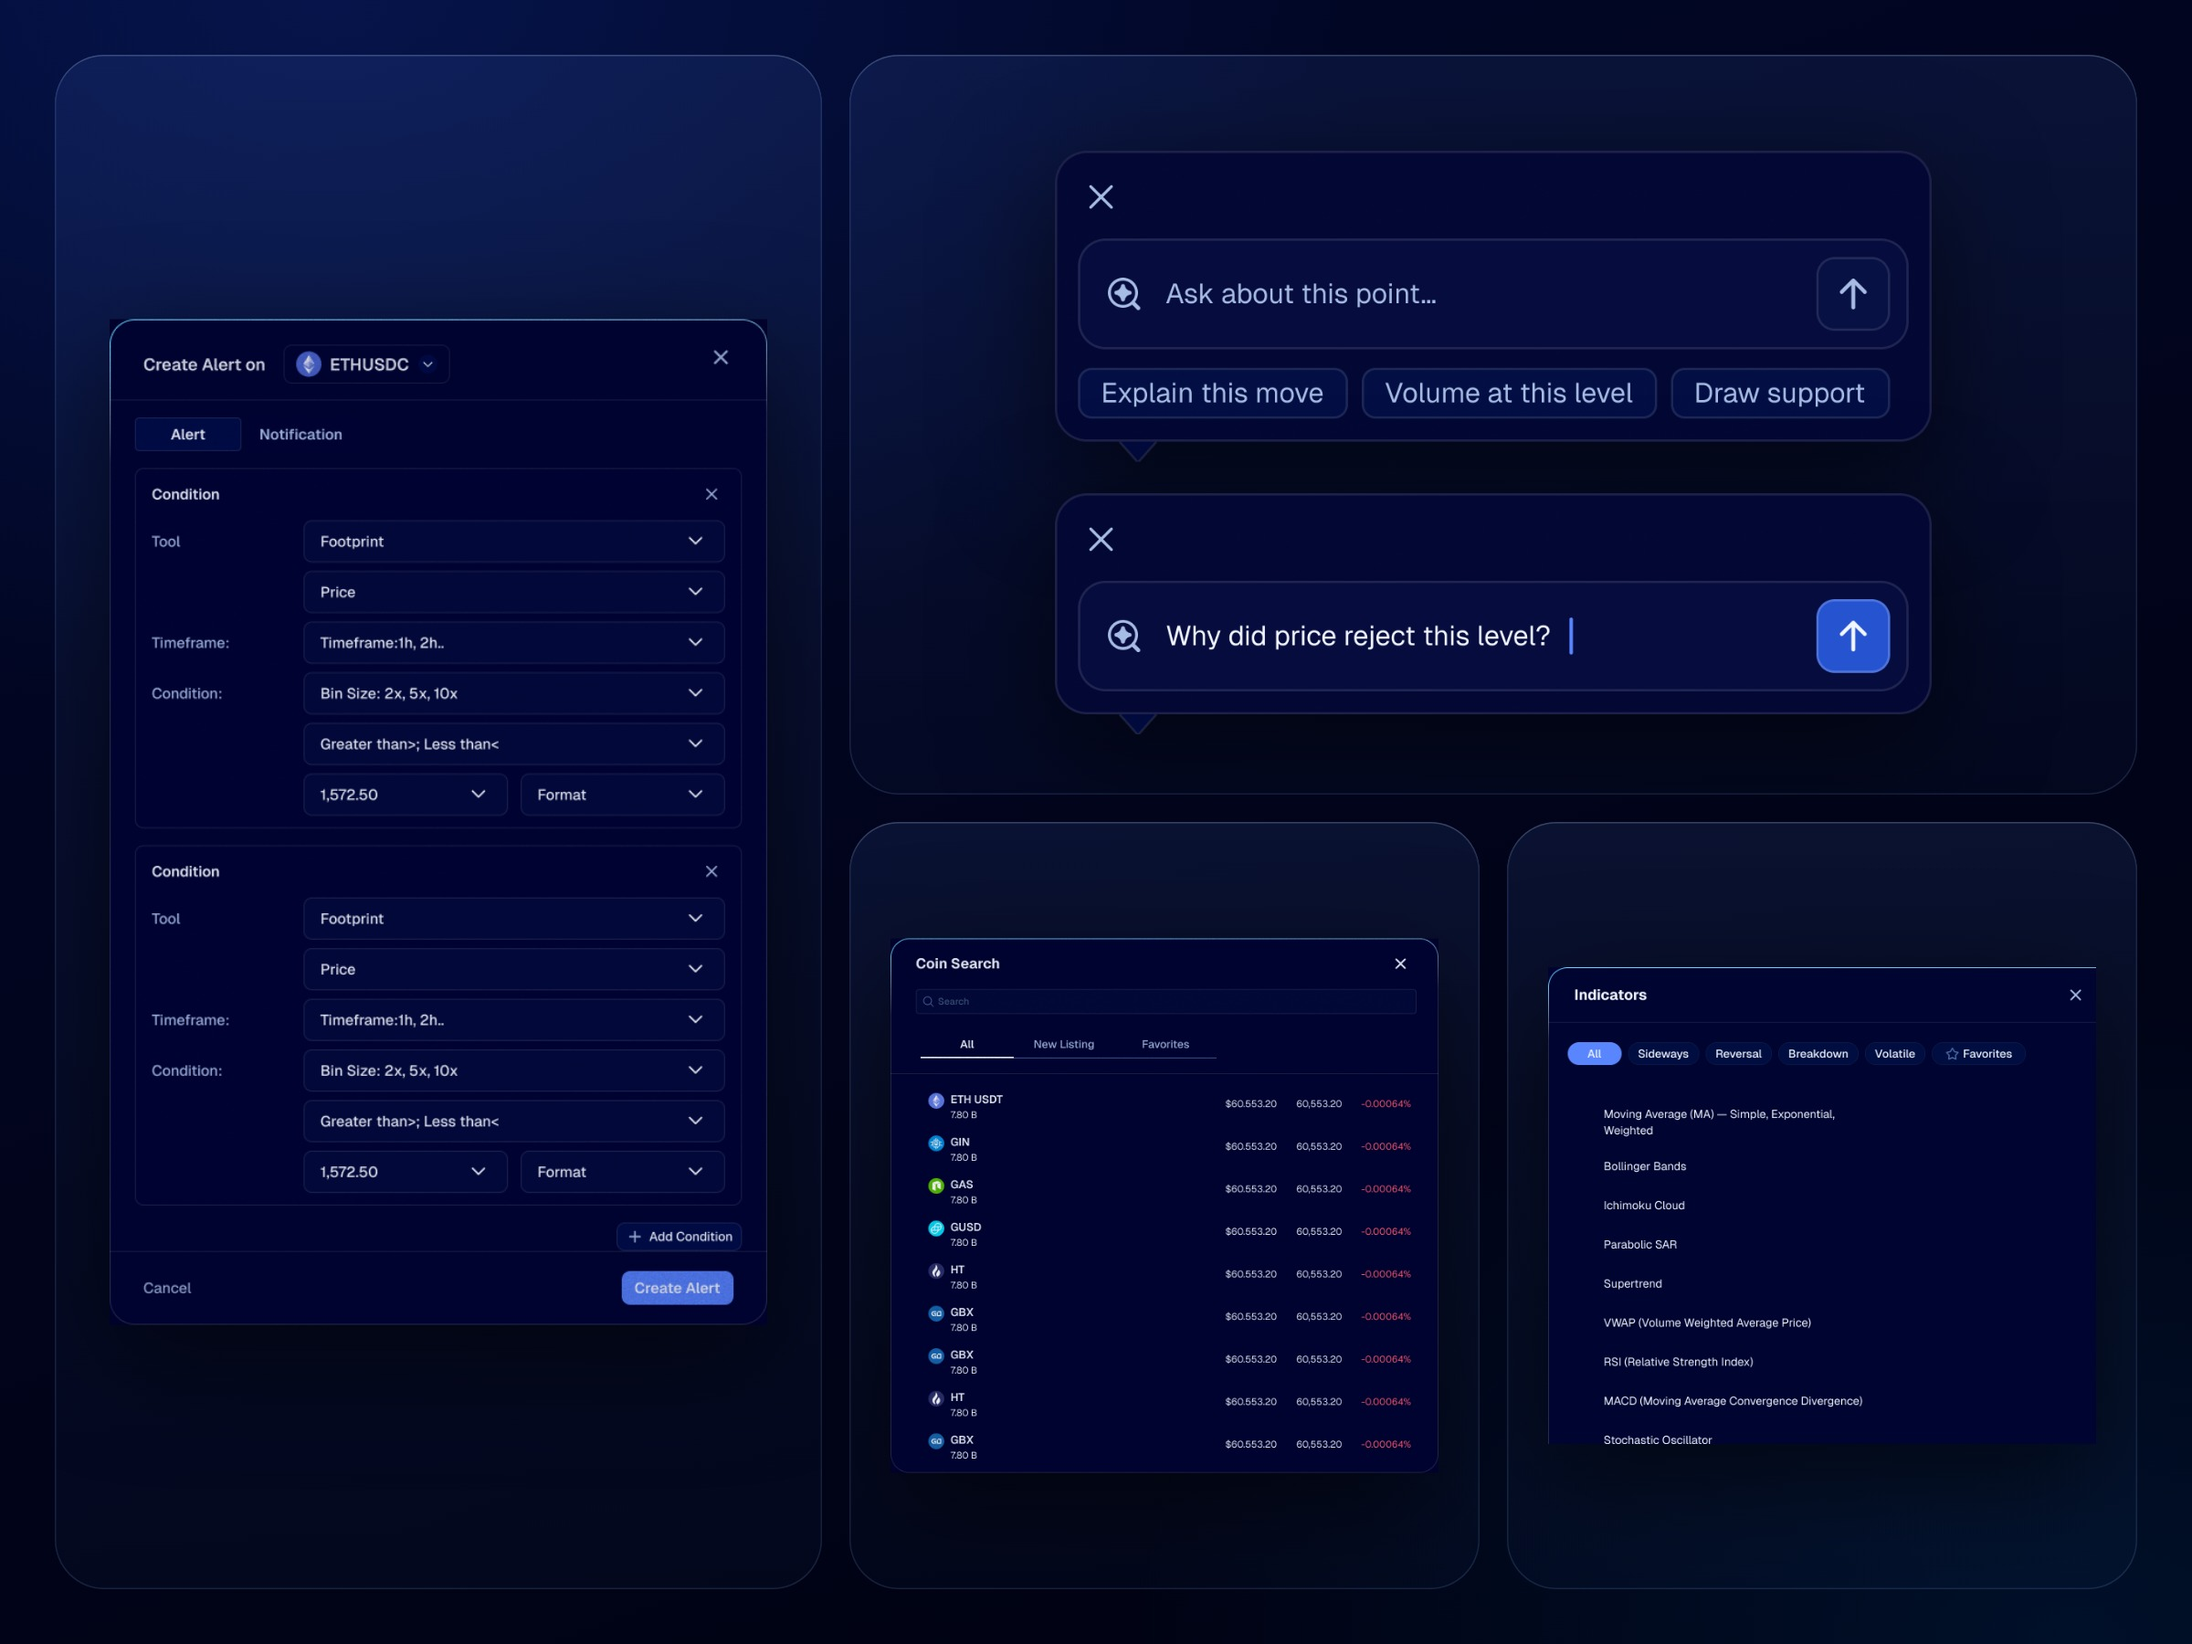
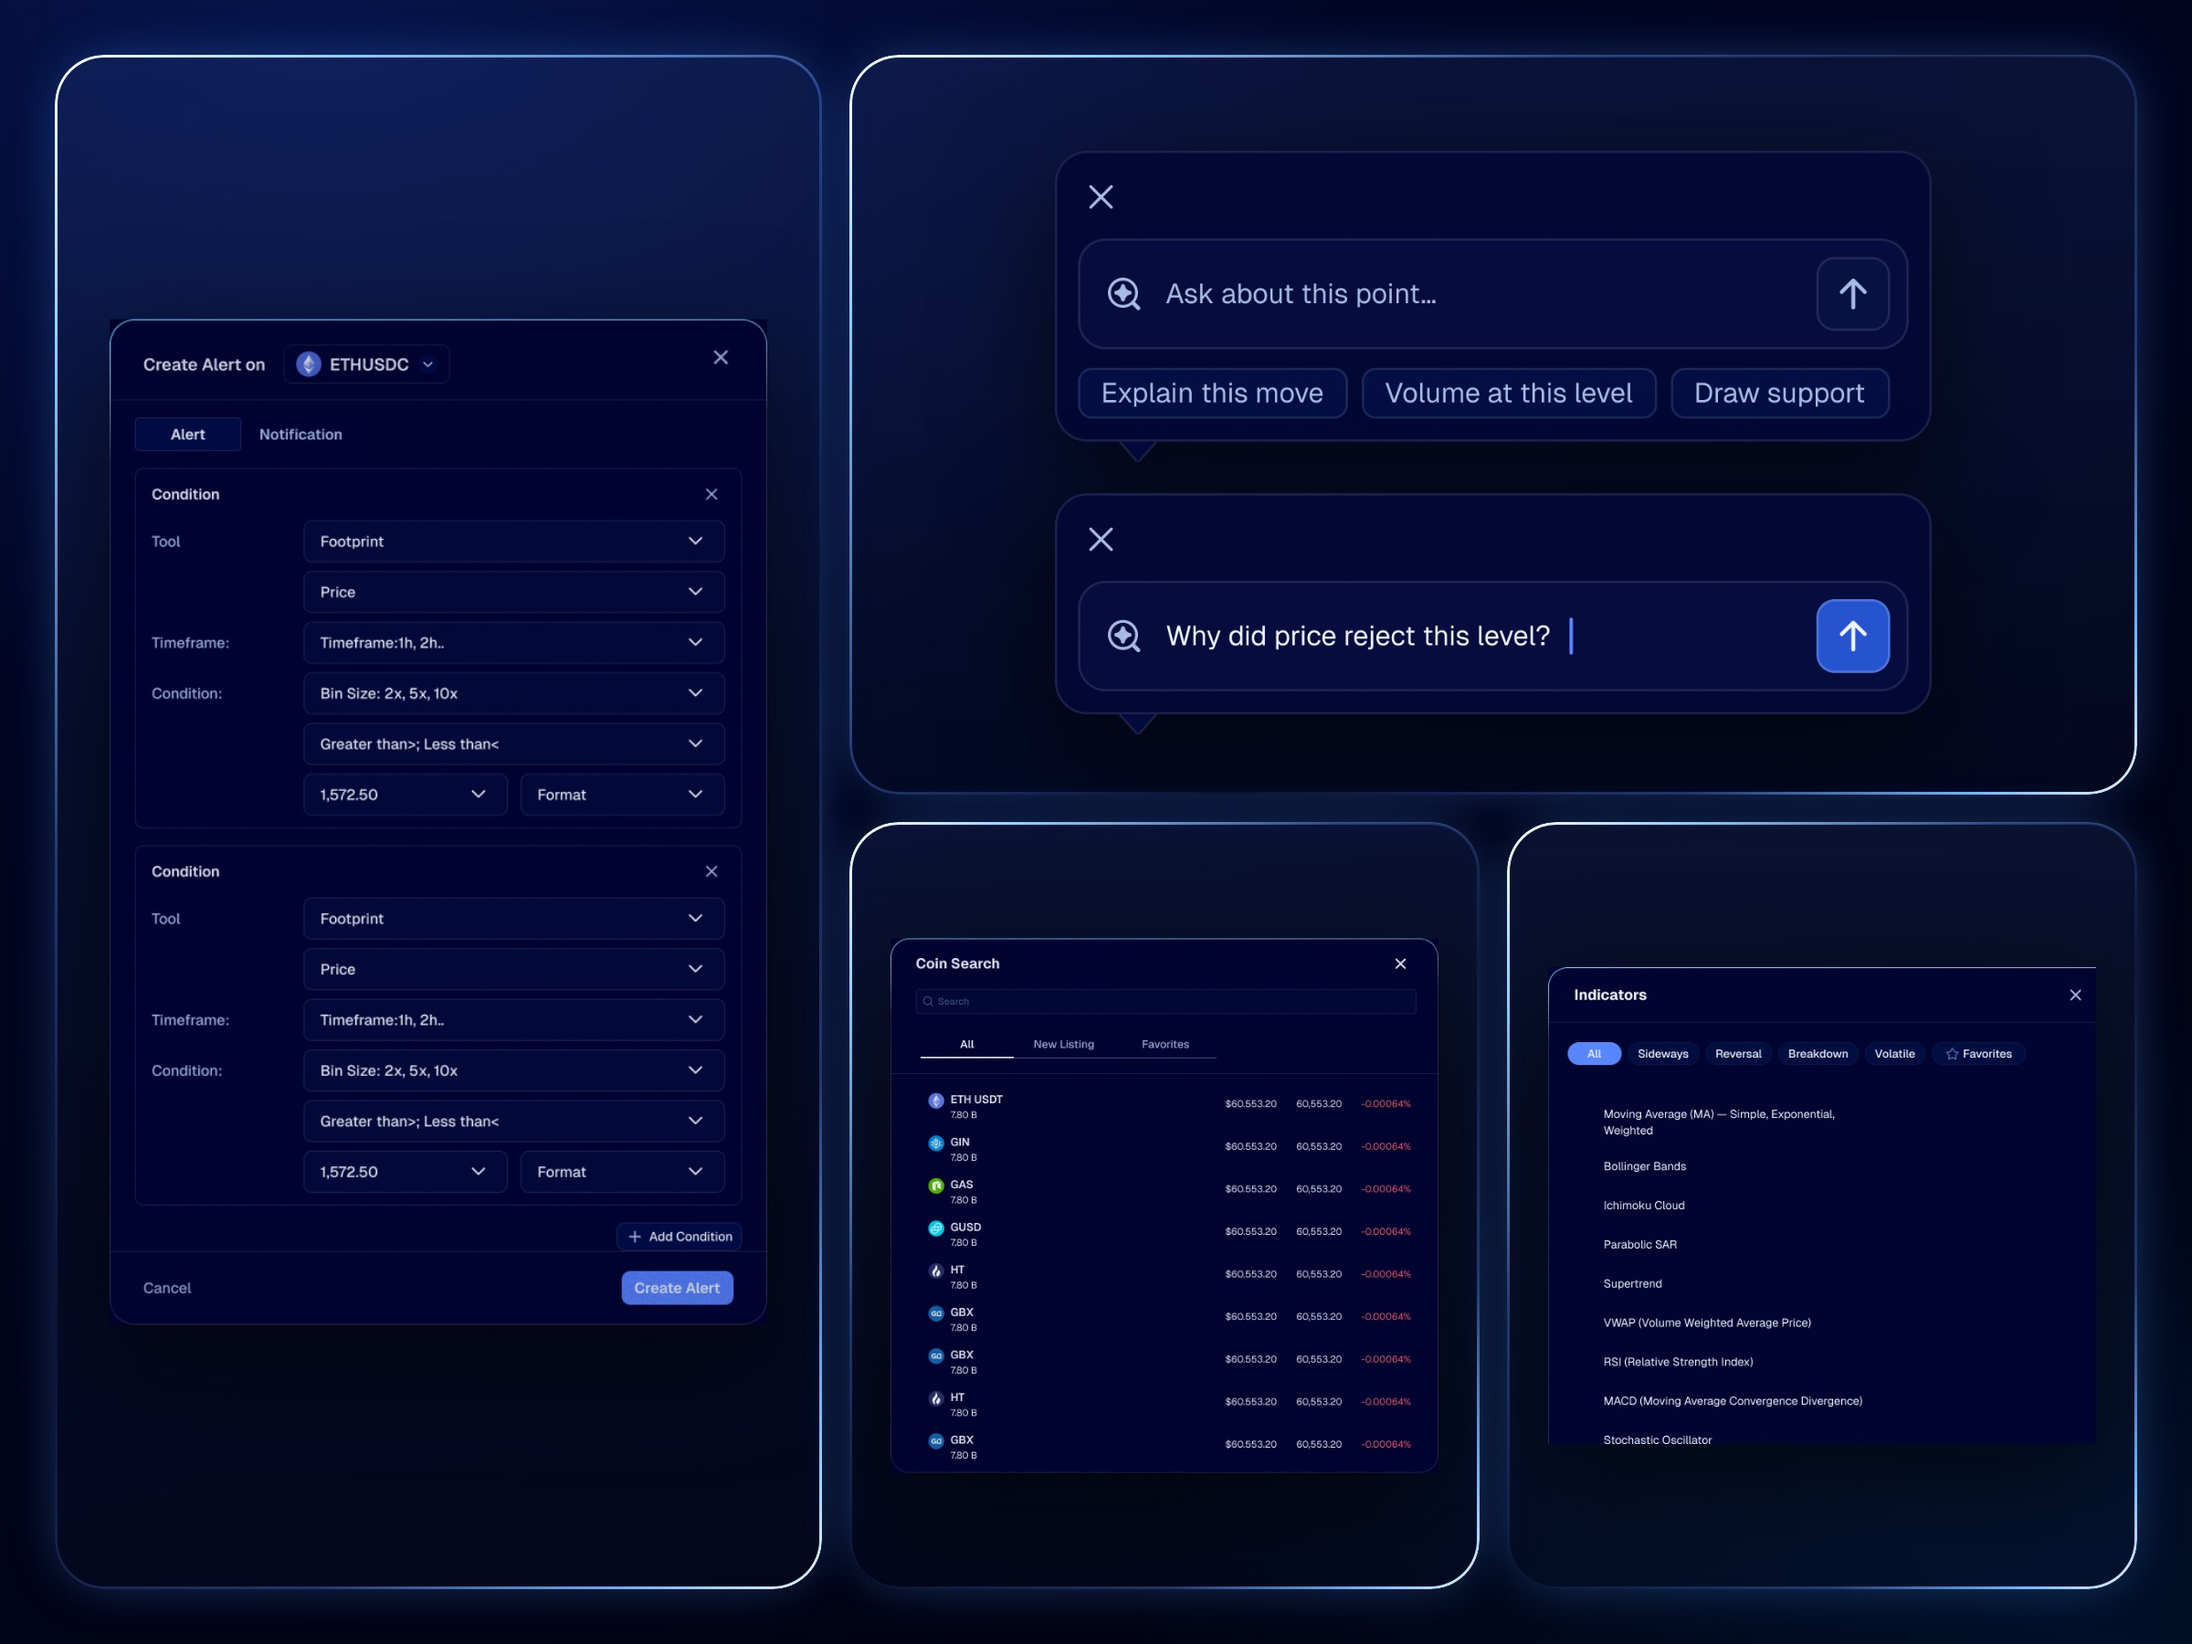
Jaadu boards: prominent gradient highlight border
Claude-Session: https://claude.ai/code/session_01L48ecgvWMXiCwrAdC3aGTG

diff --git a/scripts/mockups/jaadu/board.html b/scripts/mockups/jaadu/board.html
@@ -7,6 +7,8 @@ body{margin:0;background:#fff}
 .sc img{display:block;width:100%}
 .tl{position:absolute;overflow:hidden;border-radius:36px;background:linear-gradient(180deg,rgba(90,140,255,.10),rgba(90,140,255,.03));box-shadow:inset 0 0 0 1px rgba(150,190,255,.14),inset 0 1px 0 rgba(255,255,255,.12)}
 .tl img{position:absolute;display:block;filter:drop-shadow(0 24px 40px rgba(0,0,0,.55))}
+.tl::after,.sc::after{content:'';position:absolute;inset:0;border-radius:inherit;padding:2px;pointer-events:none;z-index:5;background:linear-gradient(135deg,#ffffff 0%,#8fd3ff 12%,rgba(90,140,255,.35) 35%,rgba(90,140,255,.08) 55%,rgba(90,140,255,.35) 78%,#6fb8ff 92%,#e6f4ff 100%);-webkit-mask:linear-gradient(#000 0 0) content-box,linear-gradient(#000 0 0);-webkit-mask-composite:xor;mask-composite:exclude}
+.tl,.sc{box-shadow:0 0 40px -10px rgba(80,150,255,.45),inset 0 1px 0 rgba(255,255,255,.12)!important}
 </style>
 <div id="root"></div>
 <script>
